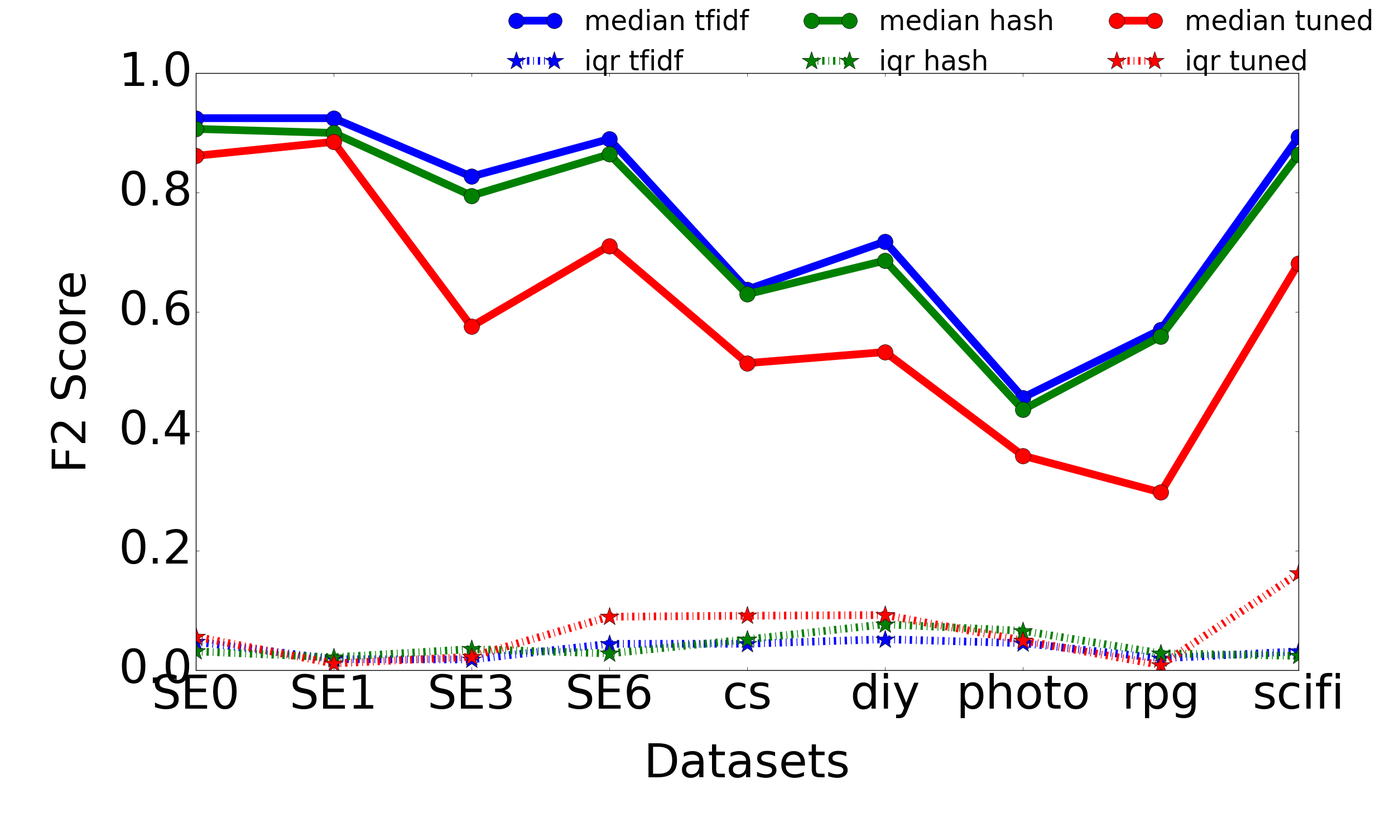
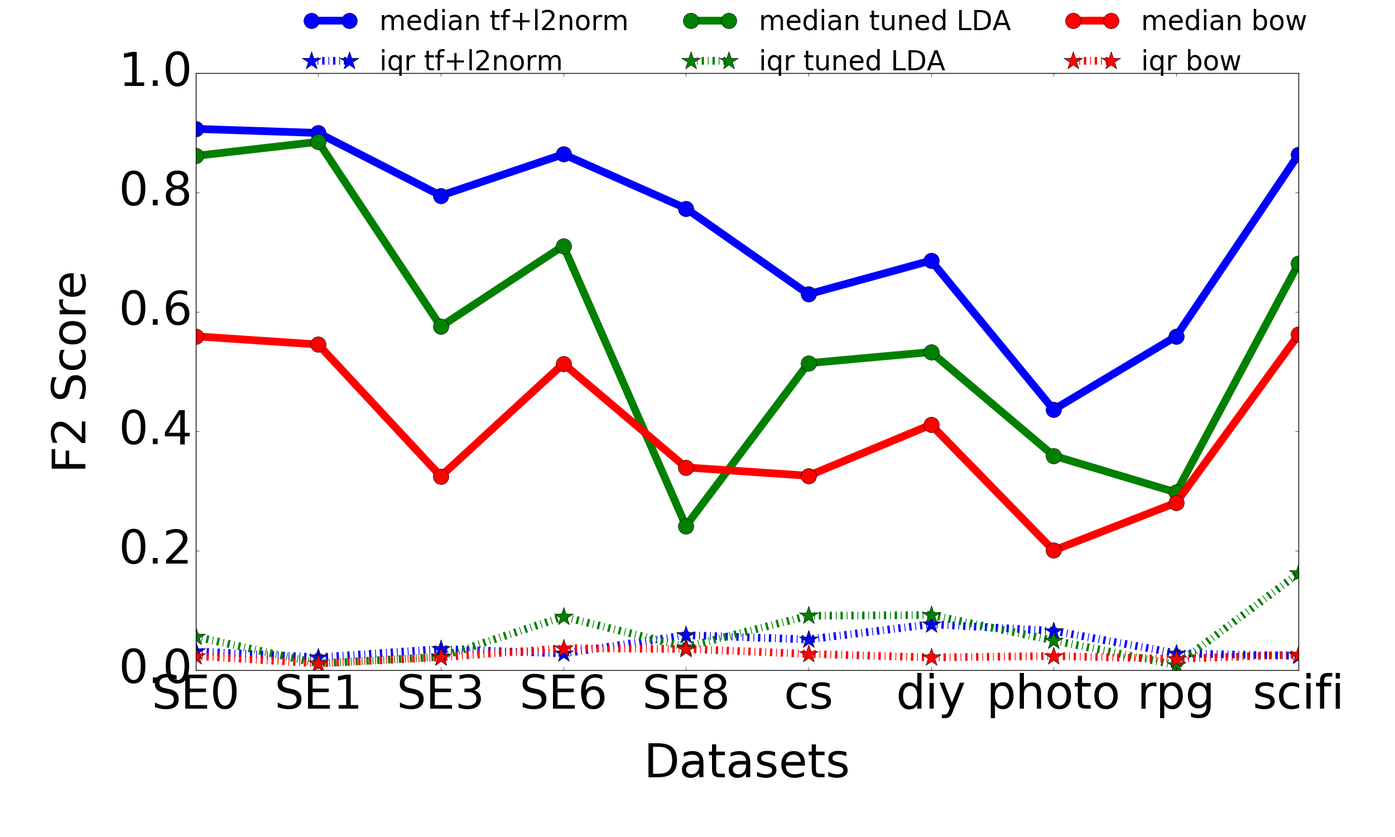
save

diff --git a/src/2016-11-03/draw.py b/src/2016-11-03/draw.py
@@ -7,12 +7,13 @@ import numpy as np
 import matplotlib.cm as cmx
 import matplotlib.colors as colors
 #log_tuned={'SE6': [{0: [[[83, 0.11815813794912039, 0.5325108469364452], [0.01674229160169266, 0.79952267303102631]], 3695.22896194458, 0.78947368421052633], 1: [[[103, 0.13297012262292499, 0.8540348501230959], [0.01641061103791374, 0.74931880108991822]], 4186.932622909546, 0.69158878504672905], 2: [[[95, 0.18343769905644258, 0.0796524557064503], [0.016908578123725218, 0.8150470219435737]], 4300.837275028229, 0.79268292682926833], 3: [[[104, 0.6567406137097488, 0.4678292601376392], [0.01415901443802259, 0.72864321608040195]], 4126.1505308151245, 0.53097345132743368], 4: [[[105, 0.15128965811985629, 0.05907595500072243], [0.017127971212461603, 0.77108433734939752]], 4387.267173051834, 0.83673469387755106]}, [0.78947368421052633, 0.69158878504672905, 0.79268292682926833, 0.53097345132743368, 0.83673469387755106], 20697.134072065353], 'SE3': [{0: [[[70, 0.13813847223688946, 0.21701192217848606], [0.0041335558760771775, 0.62103929024081117]], 16807.646595954895, 0.60546874999999989], 1: [[[121.1, 0.1, 0.09819315273321153], [0.004166371086747754, 0.64871481028151778]], 17148.77043414116, 0.58325493885230484], 2: [[[76.2, 0.21727295057097423, 0.28747174327859326], [0.00401535621637436, 0.64743589743589747]], 16982.114508152008, 0.58325024925224334], 3: [[[150, 0.3208575690701714, 0.6950242286614807], [0.0034863785904748323, 0.60585885486018642]], 19238.308867931366, 0.56107249255213509], 4: [[[119.4, 0.5602813760669031, 0.5609440912569552], [0.0035639748413401383, 0.60570071258907365]], 18089.028545856476, 0.49773755656108604]}, [0.60546874999999989, 0.58325493885230484, 0.58325024925224334, 0.56107249255213509, 0.49773755656108604], 88268.13963389397], 'SE1': [{0: [[[90, 0.19938501164789546, 0.4822167799502225], [0.005638762391865364, 0.90118577075098805]], 11567.587004899979, 0.87140992167101816], 1: [[[121, 0.140731276744474, 0.09497619780488248], [0.0059548924402544464, 0.90222575516693171]], 12530.836812019348, 0.90259740259740251], 2: [[[132, 0.16400209326850285, 0.653625946529504], [0.005490271577725267, 0.89785831960461293]], 12696.132282018661, 0.89308578745198453], 3: [[[74.2, 0.14533289868937954, 0.01], [0.006284383577663444, 0.9083665338645418]], 13925.738764047623, 0.9187620889748549], 4: [[[134.3, 0.14303038766283846, 0.457873591182994], [0.005562750641867097, 0.90783090783090781]], 12797.671155929565, 0.90090090090090091]}, [0.87140992167101816, 0.90259740259740251, 0.89308578745198453, 0.9187620889748549, 0.90090090090090091], 63519.19331288338], 'SE0': [{0: [[[75, 0.2870935819735936, 0.04040618049657823], [0.04976084234337918, 0.93333333333333324]], 1175.7441899776459, 0.9375], 1: [[[70, 0.1, 1], [0.04817090968931066, 0.95238095238095233]], 1309.1318399906158, 0.90189873417721511], 2: [[[80, 0.5872264533595015, 0.9358042121880467], [0.040386544080552096, 0.92741935483870974]], 1264.0944859981537, 0.84967320261437906], 3: [[[94.4, 0.1, 0.3429766206147909], [0.047260387444366184, 0.9701492537313432]], 1317.9225652217865, 0.89743589743589736], 4: [[[105.44, 0.1, 0.01], [0.05085545962742551, 0.94907407407407407]], 1274.898661851883, 0.93354430379746856]}, [0.9375, 0.90189873417721511, 0.84967320261437906, 0.89743589743589736, 0.93354430379746856], 6342.011147022247], 'photo': [{0: [[[135, 0.11249861124005991, 0.23317810300681413], [0.023111486970568286, 0.45035823950870008]], 2991.955897092819, 0.44634806131650134], 1: [[[98, 0.9447438915895904, 0.2663329345052736], [0.02108446623892768, 0.47192353643966539]], 2695.3910388946533, 0.40778839088905217], 2: [[[75, 0.2619616301778306, 0.9909031953058552], [0.022888670595504593, 0.44102019128586617]], 2453.6466472148895, 0.42210617928633593], 3: [[[103, 0.6262793881106326, 0.011525767347016018], [0.025990011867863993, 0.47024952015355087]], 2710.2226190567017, 0.47762478485370047], 4: [[[150, 0.1, 1], [0.02317465763205413, 0.4837067209775967]], 2696.7458300590515, 0.35812672176308541]}, [0.44634806131650134, 0.40778839088905217, 0.42210617928633593, 0.47762478485370047, 0.35812672176308541], 13548.627535104752], 'SE8': [{0: [[[91, 0.8447891398687247, 0.27252301123823575], [0.005118171231284799, 0.36637931034482762]], 12990.728049993515, 0.24578651685393257], 1: [[[97, 0.7344268995685013, 0.09453088486467787], [0.005367918857400295, 0.40277777777777785]], 10542.634625911713, 0.31404958677685951], 2: [[[116.0, 0.1, 0.4253458636077497], [0.005219640191670179, 0.36585365853658536]], 11392.422042131424, 0.36132812499999994], 3: [[[94, 0.16023243931684292, 0.7904615439225354], [0.005069694615183662, 0.30343007915567283]], 9486.559100151062, 0.20196506550218343], 4: [[[135, 0.14293087150257688, 0.4311937844924613], [0.005043216283004894, 0.37037037037037035]], 10742.668865203857, 0.23743016759776536]}, [0.24578651685393257, 0.31404958677685951, 0.36132812499999994, 0.20196506550218343, 0.23743016759776536], 55156.58504104614], 'scifi': [{0: [[[94, 0.31389783172006575, 0.08031773024457], [0.014192150708346337, 0.88365243004418259]], 3902.6384019851685, 0.85695006747638336], 1: [[[98, 0.21695911897940587, 0.054309740241067765], [0.014382445153108023, 0.9031657355679702]], 4220.930685997009, 0.87193460490463215], 2: [[[106, 0.10871513271527461, 0.14132781526270816], [0.014104386534809275, 0.87301587301587302]], 3647.5049929618835, 0.84868421052631582], 3: [[[129, 0.3227029510817835, 0.1757650084975377], [0.012968059469602772, 0.84999999999999998]], 4342.0208559036255, 0.85106382978723394], 4: [[[149, 0.178295485170633, 0.10608177114497361], [0.013490098628873121, 0.86235489220563832]], 4359.777163028717, 0.89918256130790186]}, [0.85695006747638336, 0.87193460490463215, 0.84868421052631582, 0.85106382978723394, 0.89918256130790186], 20474.478773117065], 'rpg': [{0: [[[75, 0.5541901588294901, 0.14524111983256258], [0.0182370480825672, 0.38430420711974106]], 2981.573642015457, 0.3592814371257485], 1: [[[86, 0.10632203929365129, 0.07897261618941563], [0.019580067622783644, 0.42499999999999999]], 3341.6531109809875, 0.35392088827203333], 2: [[[118, 0.6834560034479946, 0.23699627004514245], [0.016378501122067114, 0.39439088518843118]], 3217.0379269123077, 0.33793604651162784], 3: [[[72, 0.5204681990885904, 0.3449409882228137], [0.017401293606229048, 0.42738589211618255]], 3069.0149137973785, 0.35756501182033096], 4: [[[116, 0.28098542398013115, 0.024328680454351895], [0.019714253853360182, 0.41304347826086951]], 3281.3434369564056, 0.38543897216274092]}, [0.3592814371257485, 0.35392088827203333, 0.33793604651162784, 0.35756501182033096, 0.38543897216274092], 15891.068197011948], 'cs': [{0: [[[85, 0.6213181437425073, 0.11204022065250765], [0.02743830441611178, 0.65051020408163263]], 1972.7464208602905, 0.63348416289592757], 1: [[[97, 0.11688980495135161, 0.11493013586500893], [0.028548007209889304, 0.60471976401179939]], 1984.3869450092316, 0.64718162839248439], 2: [[[125, 0.1565992619914991, 0.3054524464705272], [0.026512609785522924, 0.62360801781737185]], 2199.186493873596, 0.52222222222222225], 3: [[[79, 0.24825343194944732, 0.31910319489262545], [0.02674044224596606, 0.66406250000000011]], 2005.4950869083405, 0.57971014492753625], 4: [[[95, 0.9503256041807061, 0.7187083064204416], [0.02236717637723132, 0.66091954022988508]], 1939.8553550243378, 0.5365296803652968]}, [0.63348416289592757, 0.64718162839248439, 0.52222222222222225, 0.57971014492753625, 0.5365296803652968], 10102.369038105011], 'diy': [{0: [[[104.1, 0.5566921264194947, 0.3568568694204629], [0.01565475273819549, 0.6743002544529263]], 3049.9050290584564, 0.61090225563909772], 1: [[[134, 0.23246380413918005, 0.01885789702333514], [0.018889785518742267, 0.67660550458715596]], 3600.834750890732, 0.62171628721541161], 2: [[[92, 0.40097491732217605, 0.24935467552511606], [0.016756510634846487, 0.67887931034482762]], 3035.883682012558, 0.62624254473161023], 3: [[[95, 0.6657201137768471, 0.22206808140160328], [0.016425486508170283, 0.60141509433962259]], 3134.780804872513, 0.67404426559356134], 4: [[[145, 0.22501139476119217, 0.0642220673004627], [0.01794415921209529, 0.69318181818181812]], 3599.412810087204, 0.65094339622641517]}, [0.61090225563909772, 0.62171628721541161, 0.62624254473161023, 0.67404426559356134, 0.65094339622641517], 16421.536218881607]}
-#untuned={'SE6': {'tfidf': {'linear': [0.87557603686635954, 0.88914549653579689, 0.88838268792710695, 0.89569160997732422, 0.88709677419354827, 0.9174311926605504, 0.94170403587443963, 0.85846867749419953, 0.87356321839080464, 0.89772727272727282, 0.96109839816933651, 0.92841163310961983, 0.91836734693877542, 0.83333333333333348, 0.83526682134570773, 0.93103448275862077, 0.87301587301587302, 0.86956521739130432, 0.84862385321100919, 0.92342342342342332, 0.88167053364269143, 0.88709677419354827, 0.89977220956719806, 0.90389016018306645, 0.89977220956719806]}, 'hash': {'linear': [0.84668192219679628, 0.84282460136674242, 0.82392776523702038, 0.90401785714285721, 0.8980044345898005, 0.88169642857142849, 0.86516853932584259, 0.86405529953917048, 0.87443946188340793, 0.84615384615384615, 0.86516853932584259, 0.88169642857142849, 0.83900226757369623, 0.87443946188340793, 0.86516853932584259, 0.859375, 0.84801762114537449, 0.83705357142857151, 0.86363636363636365, 0.85812356979405024, 0.898876404494382, 0.86560364464692496, 0.81818181818181834, 0.85778781038374707, 0.86322869955156967]}}, 'SE3': {'tfidf': {'linear': [0.8263305322128851, 0.8134642356241234, 0.83452211126961484, 0.83453237410071945, 0.79689703808180523, 0.83810888252148996, 0.8495821727019498, 0.83217753120665749, 0.82869080779944293, 0.76368876080691628, 0.84379358437935836, 0.81690140845070414, 0.81428571428571428, 0.82627118644067798, 0.83926031294452341, 0.84659913169319823, 0.82743988684582748, 0.82025677603423675, 0.83100558659217871, 0.79999999999999993, 0.8066860465116279, 0.82047685834502115, 0.81690140845070414, 0.81676136363636365, 0.8606557377049181]}, 'hash': {'linear': [0.77574047954865999, 0.80000000000000004, 0.80758426966292129, 0.80141843971631199, 0.76011157601115764, 0.79750346740638012, 0.80622347949080619, 0.7825484764542936, 0.77030812324929976, 0.80829756795422047, 0.78762306610407873, 0.79639889196675884, 0.83217753120665749, 0.76763485477178428, 0.76652601969057665, 0.79432624113475192, 0.75239398084815323, 0.80532212885154053, 0.83218707015130666, 0.76428571428571423, 0.7941988950276242, 0.77355836849507742, 0.79700272479564038, 0.74127906976744173, 0.85091420534458495]}}, 'SE1': {'tfidf': {'linear': [0.92730978260869568, 0.9032038173142467, 0.92454112848402448, 0.92567567567567566, 0.92114208021753896, 0.9162125340599454, 0.91002044989775055, 0.9334691106585199, 0.90724441435341907, 0.94042838018741637, 0.92402464065708401, 0.90136054421768708, 0.92592592592592593, 0.91554054054054046, 0.92354533152909346, 0.92968221771467219, 0.92276144907723856, 0.90631364562118133, 0.93387866394001362, 0.90074779061862675, 0.92794017675050988, 0.92818428184281843, 0.90537780803267531, 0.93047034764826153, 0.93559322033898307]}, 'hash': {'linear': [0.90169491525423717, 0.88693297224102907, 0.90847457627118655, 0.90389784946236562, 0.88354773188896407, 0.91002044989775055, 0.89986468200270631, 0.88715159755268524, 0.91336467427803891, 0.89932885906040261, 0.87635869565217384, 0.91954022988505735, 0.9251700680272108, 0.88195841716968459, 0.88888888888888873, 0.88851351351351349, 0.91310251188051594, 0.89261285909712718, 0.89959568733153639, 0.88948787061994627, 0.89309878213802418, 0.91307277628032346, 0.8845374746792708, 0.86603518267929636, 0.90694538098449096]}}, 'SE0': {'tfidf': {'linear': [0.91362126245847175, 0.92833876221498357, 0.93851132686084149, 0.88815789473684204, 0.89869281045751648, 0.9508196721311476, 0.91935483870967738, 0.9546925566343043, 0.82214765100671139, 0.91205211726384372, 0.92409240924092406, 0.93442622950819676, 0.93851132686084149, 0.86885245901639341, 0.9838709677419355, 0.93023255813953476, 0.94462540716612375, 0.84717607973421938, 0.91503267973856217, 0.87748344370860931, 0.86956521739130443, 0.93548387096774188, 0.94462540716612375, 0.8910891089108911, 0.92532467532467533]}, 'hash': {'linear': [0.91362126245847175, 0.87171052631578949, 0.92233009708737868, 0.87748344370860931, 0.89869281045751648, 0.88926174496644295, 0.91503267973856217, 0.90759075907590769, 0.92532467532467533, 0.89869281045751648, 0.92105263157894735, 0.8910891089108911, 0.85526315789473684, 0.89869281045751648, 0.86378737541528228, 0.96721311475409832, 0.93851132686084149, 0.93137254901960775, 0.79391891891891886, 0.91935483870967738, 0.92715231788079477, 0.90163934426229519, 0.92532467532467533, 0.8910891089108911, 0.90614886731391597]}}, 'photo': {'tfidf': {'linear': [0.42982456140350878, 0.43814432989690721, 0.44194107452339682, 0.50000000000000011, 0.49137931034482762, 0.47957371225577261, 0.47538200339558567, 0.45620437956204379, 0.47979797979797978, 0.43554006968641118, 0.52631578947368418, 0.48551959114139698, 0.3859964093357271, 0.46409807355516636, 0.43220338983050849, 0.40798611111111116, 0.44117647058823528, 0.43771043771043766, 0.48717948717948711, 0.41284403669724773, 0.45685279187817263, 0.47579298831385641, 0.40350877192982459, 0.43478260869565211, 0.4830053667262969]}, 'hash': {'linear': [0.42387543252595156, 0.43594306049822062, 0.42444821731748728, 0.51601423487544484, 0.48951048951048953, 0.45685279187817263, 0.52586206896551724, 0.48330404217926187, 0.37300177619893432, 0.38596491228070179, 0.40747028862478774, 0.50862068965517238, 0.39682539682539686, 0.4325259515570935, 0.52447552447552448, 0.4681978798586573, 0.42387543252595156, 0.44463087248322153, 0.41245791245791247, 0.50610820244328103, 0.42241379310344829, 0.46875, 0.50862068965517238, 0.42418772563176899, 0.4247787610619469]}}, 'SE8': {'tfidf': {'linear': [0.76923076923076927, 0.85308056872037907, 0.83732057416267947, 0.81280788177339891, 0.77294685990338163, 0.80487804878048774, 0.7674418604651162, 0.84541062801932376, 0.75980392156862742, 0.7857142857142857, 0.81730769230769229, 0.80568720379146919, 0.82524271844660191, 0.75829383886255919, 0.83732057416267947, 0.83333333333333337, 0.77500000000000013, 0.87962962962962954, 0.70351758793969843, 0.78817733990147776, 0.77889447236180898, 0.84862385321100908, 0.80645161290322576, 0.84951456310679618, 0.77294685990338163]}, 'hash': {'linear': [0.79601990049751226, 0.87677725118483418, 0.82125603864734287, 0.75242718446601953, 0.73113207547169801, 0.77294685990338163, 0.80097087378640763, 0.73604060913705593, 0.86046511627906985, 0.76388888888888884, 0.74519230769230771, 0.80645161290322576, 0.75609756097560976, 0.73604060913705593, 0.86124401913875615, 0.80568720379146919, 0.76354679802955672, 0.75117370892018787, 0.77114427860696522, 0.83720930232558144, 0.7142857142857143, 0.74519230769230771, 0.80188679245283023, 0.81339712918660279, 0.80952380952380942]}}, 'scifi': {'tfidf': {'linear': [0.91608391608391604, 0.89310829817158921, 0.86987270155587004, 0.90780141843971629, 0.88935574229691883, 0.94233473980309423, 0.88744588744588759, 0.88401697312588412, 0.86592178770949713, 0.90782122905027951, 0.87357954545454541, 0.88732394366197176, 0.94744121715076079, 0.89615931721194875, 0.86036671368124129, 0.93530239099859347, 0.91038406827880525, 0.87657784011220208, 0.87482219061166433, 0.87904360056258801, 0.89488636363636354, 0.90523338048090529, 0.90209790209790197, 0.86428571428571432, 0.90909090909090917]}, 'hash': {'linear': [0.87994542974079115, 0.84144645340751056, 0.8692628650904034, 0.8380281690140845, 0.85517241379310349, 0.85211267605633789, 0.87312414733969979, 0.89903181189488257, 0.82287308228730827, 0.87345254470426403, 0.86230876216968022, 0.92361111111111105, 0.84944751381215466, 0.87078651685393249, 0.83563535911602205, 0.89385474860335201, 0.86350974930362123, 0.87621696801112658, 0.83906464924346624, 0.87016574585635365, 0.82738944365192579, 0.8677685950413222, 0.85654596100278546, 0.86301369863013688, 0.86685159500693487]}}, 'rpg': {'tfidf': {'linear': [0.57224606580829762, 0.57917888563049846, 0.59607293127629735, 0.56122448979591832, 0.55959302325581384, 0.57365439093484427, 0.52975326560232217, 0.59626436781609193, 0.57365439093484427, 0.54519368723098993, 0.52068473609129817, 0.6047197640117995, 0.5683453237410071, 0.56671449067431845, 0.58910162002945521, 0.5844155844155845, 0.54676258992805749, 0.54225352112676051, 0.57412790697674421, 0.56277056277056281, 0.58055152394775034, 0.56286549707602329, 0.56998556998556993, 0.54765291607396871, 0.57503506311360453]}, 'hash': {'linear': [0.56671449067431845, 0.56417489421720735, 0.55389221556886226, 0.52395209580838309, 0.50724637681159424, 0.54896142433234418, 0.56509298998569379, 0.6028368794326241, 0.56768558951965054, 0.51470588235294112, 0.53724928366762181, 0.53597650513950068, 0.57580174927113703, 0.56034482758620685, 0.56286549707602329, 0.60171919770773641, 0.54785020804438278, 0.52205882352941169, 0.55066079295154191, 0.55386949924127471, 0.53973013493253374, 0.5716353111432706, 0.55873925501432653, 0.60205580029368577, 0.56786703601108035]}}, 'cs': {'tfidf': {'linear': [0.61771561771561778, 0.63549160671462834, 0.63805104408352664, 0.65853658536585358, 0.59610705596107061, 0.63701923076923084, 0.64320388349514579, 0.63510392609699762, 0.66265060240963858, 0.6644144144144144, 0.61274509803921562, 0.65727699530516437, 0.61320754716981118, 0.64320388349514579, 0.69739952718676124, 0.59665871121718372, 0.60465116279069764, 0.64950980392156865, 0.64903846153846156, 0.63679245283018882, 0.5690072639225181, 0.67216981132075471, 0.58894230769230771, 0.61893203883495163, 0.69930069930069938]}, 'hash': {'linear': [0.65268065268065267, 0.64402810304449642, 0.58139534883720922, 0.6588235294117647, 0.62790697674418616, 0.62937062937062926, 0.63380281690140849, 0.62929061784897034, 0.54631828978622321, 0.63829787234042556, 0.66901408450704225, 0.66825775656324571, 0.60426540284360197, 0.59101654846335705, 0.59770114942528729, 0.65420560747663548, 0.65217391304347827, 0.59101654846335705, 0.63679245283018882, 0.60090702947845809, 0.71764705882352942, 0.625, 0.58194774346793354, 0.60090702947845809, 0.60096153846153844]}}, 'diy': {'tfidf': {'linear': [0.7752808988764045, 0.67928730512249447, 0.77272727272727271, 0.75268817204301075, 0.64772727272727271, 0.73788546255506604, 0.68478260869565222, 0.71748878923766823, 0.73529411764705876, 0.74157303370786509, 0.69284064665127032, 0.71743929359823388, 0.75163398692810468, 0.76666666666666672, 0.70953436807095338, 0.70135746606334837, 0.75431034482758619, 0.70484581497797361, 0.70438799076212466, 0.70114942528735624, 0.75723830734966591, 0.70484581497797361, 0.69690265486725667, 0.62200956937799046, 0.7860262008733625]}, 'hash': {'linear': [0.72562358276644001, 0.72869955156950683, 0.65555555555555556, 0.73732718894009219, 0.66448801742919394, 0.65995525727069348, 0.67873303167420806, 0.7505518763796909, 0.73660714285714279, 0.65217391304347816, 0.65972222222222221, 0.72062084257206194, 0.78299776286353473, 0.63063063063063063, 0.69264069264069261, 0.68565400843881852, 0.72368421052631571, 0.74592074592074598, 0.67032967032967039, 0.6138392857142857, 0.67114093959731547, 0.65909090909090906, 0.74115044247787609, 0.6777777777777777, 0.74725274725274715]}}}
-#jaccard_tuned={'SE6': [{0: [[[100, 0.19297542703277382, 0.6702608974014973], [0.75, 0.75156576200417546]], 8376.640879154205, 0.71033210332103325], 1: [[[85.0, 0.1, 0.27501088066217466], [0.75, 0.76704545454545459]], 9991.221119880676, 0.86956521739130443], 2: [[[121, 0.16973580786361472, 0.5706568376741179], [0.75, 0.63577586206896541]], 8758.78611779213, 0.71428571428571441], 3: [[[103, 0.33886952472633536, 0.9855811127297843], [0.75, 0.55810397553516822]], 8705.782521009445, 0.625], 4: [[[124.9, 0.1, 1], [1.0, 0.53030303030303039]], 9996.39310002327, 0.61461794019933558]}, [0.71033210332103325, 0.86956521739130443, 0.71428571428571441, 0.625, 0.61461794019933558], 45828.950165987015], 'SE3': [{0: [[[70, 0.13813847223688946, 0.21701192217848606], [0.5, 0.68603213844252153]], 41407.026415109634, 0.57874762808349145], 1: [[[98, 0.13082947598095568, 0.1628801260834368], [0.5, 0.58064516129032262]], 44595.179894924164, 0.63607924921793535], 2: [[[88, 0.19288253600730992, 0.3968217203306359], [0.5, 0.62091503267973858]], 41015.920333862305, 0.57526366251198469], 3: [[[142, 0.1782542700439075, 0.3876940697671911], [0.5, 0.62015503875969002]], 50464.95137786865, 0.55657773689052437], 4: [[[84.6, 0.1, 0.6928156232433258], [0.5, 0.60513447432762835]], 46773.06222009659, 0.38630653266331655]}, [0.57874762808349145, 0.63607924921793535, 0.57526366251198469, 0.55657773689052437, 0.38630653266331655], 224256.90544080734], 'SE1': [{0: [[[90, 0.19938501164789546, 0.4822167799502225], [0.75, 0.90909090909090906]], 27303.478201150894, 0.87702265372168287], 1: [[[93, 0.15325938518565918, 0.7350936502712501], [0.75, 0.89137645107794361]], 26198.626716852188, 0.88803088803088803], 2: [[[78, 0.1251751936103578, 0.43424706815102393], [0.75, 0.89694656488549618]], 27950.70831990242, 0.91677503250975279], 3: [[[144, 0.11292818953754573, 0.1731524008990326], [0.75, 0.90831191088260499]], 25182.636461019516, 0.88444157520981281], 4: [[[70, 0.6026482805010416, 0.6506613161218172], [0.75, 0.88235294117647067]], 24928.82283091545, 0.85823267641449441]}, [0.87702265372168287, 0.88803088803088803, 0.91677503250975279, 0.88444157520981281, 0.85823267641449441], 131564.7270948887], 'SE0': [{0: [[[78, 0.7602710954605432, 0.7648532511684383], [1.0, 0.82995951417004066]], 3137.095813035965, 0.85760517799352753], 1: [[[131, 0.44252353158469493, 0.075156099819646], [0.75, 0.85051546391752564]], 3420.6104509830475, 0.83056478405315615], 2: [[[88.6, 0.10297693079436032, 0.4283415564958784], [0.75, 0.9569377990430622]], 3788.480891942978, 0.93354430379746856], 3: [[[150, 0.2614271967114924, 0.9030979265048535], [1.0, 0.8214285714285714]], 3631.5800909996033, 0.91346153846153844], 4: [[[121, 0.5693682460470674, 0.8218853954627423], [1.0, 0.72289156626506013]], 3465.8656208515167, 0.86092715231788086]}, [0.85760517799352753, 0.83056478405315615, 0.93354430379746856, 0.91346153846153844, 0.86092715231788086], 17443.697834968567], 'photo': [{0: [[[145, 0.3943578774949562, 0.5615388129908747], [1.0, 0.39705882352941169]], 10474.39441204071, 0.39979757085020251], 1: [[[132, 0.7830396250333493, 0.7363455987935092], [1.0, 0.30737704918032788]], 8944.273241996765, 0.33838383838383845], 2: [[[148, 0.7328110811481445, 0.8440423168167064], [0.75, 0.4562268803945746]], 10382.123938083649, 0.3503184713375796], 3: [[[102, 0.13866232513545884, 0.8483736214096389], [0.75, 0.4926108374384236]], 9036.484382867813, 0.42776432606941089], 4: [[[126, 0.4263511278353652, 0.7065989561396058], [0.75, 0.47207446808510639]], 9024.722458839417, 0.35889070146818919]}, [0.39979757085020251, 0.33838383838383845, 0.3503184713375796, 0.42776432606941089, 0.35889070146818919], 47862.21007800102], 'scifi': [{0: [[[131, 0.786238804427498, 0.9085625064469703], [1.0, 0.6207366984993179]], 15653.131659030914, 0.625], 1: [[[121, 0.9348022722235307, 0.9193413422324184], [1.0, 0.625]], 15441.182574987411, 0.68126520681265201], 2: [[[109.1, 0.21161158238907873, 1], [1.0, 0.82978723404255328]], 17168.354903936386, 0.80519480519480502], 3: [[[80.7, 0.14323254015767423, 0.7312803772559391], [0.75, 0.89314194577352468]], 18987.88377404213, 0.86363636363636376], 4: [[[150, 0.2656647615236077, 0.7376001225594495], [1.0, 0.64495530012771385]], 18754.55832695961, 0.64317673378076057]}, [0.625, 0.68126520681265201, 0.80519480519480502, 0.86363636363636376, 0.64317673378076057], 86005.41646504402], 'rpg': [{0: [[[139, 0.23895973417989835, 0.8752770766923749], [0.75, 0.3125]], 6846.719393968582, 0.30156165858912226], 1: [[[128.3, 0.5954408505980529, 0.9916928666336362], [0.75, 0.33554817275747506]], 7260.958876132965, 0.29738878143133463], 2: [[[145.1, 0.718035999915716, 0.9283214802640409], [0.75, 0.32440476190476186]], 7200.810341119766, 0.27751423149905124], 3: [[[82.7, 0.3046250853243862, 0.9289187422594142], [0.75, 0.35714285714285715]], 6170.637305021286, 0.29317010309278352], 4: [[[70, 0.448829835469857, 0.7481560700301431], [0.75, 0.37269372693726938]], 6270.791911125183, 0.32741738066095472]}, [0.30156165858912226, 0.29738878143133463, 0.27751423149905124, 0.29317010309278352, 0.32741738066095472], 33750.078605890274], 'cs': [{0: [[[89, 0.5228947541073846, 0.460374716774128], [0.5, 0.64102564102564097]], 7711.550457000732, 0.5580357142857143], 1: [[[120.1, 0.29966147154114925, 0.8889754174900892], [0.75, 0.5844155844155845]], 7554.562304973602, 0.51383399209486169], 2: [[[129, 0.2725793001763192, 0.997100181804948], [0.75, 0.63888888888888895]], 6978.088127851486, 0.52391799544419138], 3: [[[150, 0.9818874305119129, 0.9397372448265949], [0.75, 0.42216358839050128]], 7897.849547147751, 0.3930131004366812], 4: [[[137, 0.6637192867430921, 0.753669429657096], [0.75, 0.43973941368078173]], 7523.143872976303, 0.4329896907216495]}, [0.5580357142857143, 0.51383399209486169, 0.52391799544419138, 0.3930131004366812, 0.4329896907216495], 37665.38827300072], 'diy': [{0: [[[73, 0.9587989910349364, 0.12021876371928183], [0.5, 0.65610859728506787]], 11980.725681781769, 0.6021897810218978], 1: [[[97.1, 0.6521561781404386, 0.7976135335091714], [0.75, 0.52040816326530615]], 11475.269180059433, 0.53244592346089858], 2: [[[95, 0.3404983553691791, 0.9632447143235703], [0.75, 0.55785123966942163]], 11238.82038283348, 0.41509433962264142], 3: [[[70, 0.31979110732187876, 0.01], [0.5, 0.64272211720226835]], 11299.225255012512, 0.56131260794473226], 4: [[[82, 0.4147610136843711, 0.7421218273836252], [0.75, 0.51485148514851475]], 11905.667557954788, 0.46923076923076912]}, [0.6021897810218978, 0.53244592346089858, 0.41509433962264142, 0.56131260794473226, 0.46923076923076912], 57900.026175022125]}
+untuned={'SE6': {'tfidf': {'linear': [0.87557603686635954, 0.88914549653579689, 0.88838268792710695, 0.89569160997732422, 0.88709677419354827, 0.9174311926605504, 0.94170403587443963, 0.85846867749419953, 0.87356321839080464, 0.89772727272727282, 0.96109839816933651, 0.92841163310961983, 0.91836734693877542, 0.83333333333333348, 0.83526682134570773, 0.93103448275862077, 0.87301587301587302, 0.86956521739130432, 0.84862385321100919, 0.92342342342342332, 0.88167053364269143, 0.88709677419354827, 0.89977220956719806, 0.90389016018306645, 0.89977220956719806]}, 'hash': {'linear': [0.84668192219679628, 0.84282460136674242, 0.82392776523702038, 0.90401785714285721, 0.8980044345898005, 0.88169642857142849, 0.86516853932584259, 0.86405529953917048, 0.87443946188340793, 0.84615384615384615, 0.86516853932584259, 0.88169642857142849, 0.83900226757369623, 0.87443946188340793, 0.86516853932584259, 0.859375, 0.84801762114537449, 0.83705357142857151, 0.86363636363636365, 0.85812356979405024, 0.898876404494382, 0.86560364464692496, 0.81818181818181834, 0.85778781038374707, 0.86322869955156967]}}, 'SE3': {'tfidf': {'linear': [0.8263305322128851, 0.8134642356241234, 0.83452211126961484, 0.83453237410071945, 0.79689703808180523, 0.83810888252148996, 0.8495821727019498, 0.83217753120665749, 0.82869080779944293, 0.76368876080691628, 0.84379358437935836, 0.81690140845070414, 0.81428571428571428, 0.82627118644067798, 0.83926031294452341, 0.84659913169319823, 0.82743988684582748, 0.82025677603423675, 0.83100558659217871, 0.79999999999999993, 0.8066860465116279, 0.82047685834502115, 0.81690140845070414, 0.81676136363636365, 0.8606557377049181]}, 'hash': {'linear': [0.77574047954865999, 0.80000000000000004, 0.80758426966292129, 0.80141843971631199, 0.76011157601115764, 0.79750346740638012, 0.80622347949080619, 0.7825484764542936, 0.77030812324929976, 0.80829756795422047, 0.78762306610407873, 0.79639889196675884, 0.83217753120665749, 0.76763485477178428, 0.76652601969057665, 0.79432624113475192, 0.75239398084815323, 0.80532212885154053, 0.83218707015130666, 0.76428571428571423, 0.7941988950276242, 0.77355836849507742, 0.79700272479564038, 0.74127906976744173, 0.85091420534458495]}}, 'SE1': {'tfidf': {'linear': [0.92730978260869568, 0.9032038173142467, 0.92454112848402448, 0.92567567567567566, 0.92114208021753896, 0.9162125340599454, 0.91002044989775055, 0.9334691106585199, 0.90724441435341907, 0.94042838018741637, 0.92402464065708401, 0.90136054421768708, 0.92592592592592593, 0.91554054054054046, 0.92354533152909346, 0.92968221771467219, 0.92276144907723856, 0.90631364562118133, 0.93387866394001362, 0.90074779061862675, 0.92794017675050988, 0.92818428184281843, 0.90537780803267531, 0.93047034764826153, 0.93559322033898307]}, 'hash': {'linear': [0.90169491525423717, 0.88693297224102907, 0.90847457627118655, 0.90389784946236562, 0.88354773188896407, 0.91002044989775055, 0.89986468200270631, 0.88715159755268524, 0.91336467427803891, 0.89932885906040261, 0.87635869565217384, 0.91954022988505735, 0.9251700680272108, 0.88195841716968459, 0.88888888888888873, 0.88851351351351349, 0.91310251188051594, 0.89261285909712718, 0.89959568733153639, 0.88948787061994627, 0.89309878213802418, 0.91307277628032346, 0.8845374746792708, 0.86603518267929636, 0.90694538098449096]}}, 'SE0': {'tfidf': {'linear': [0.91362126245847175, 0.92833876221498357, 0.93851132686084149, 0.88815789473684204, 0.89869281045751648, 0.9508196721311476, 0.91935483870967738, 0.9546925566343043, 0.82214765100671139, 0.91205211726384372, 0.92409240924092406, 0.93442622950819676, 0.93851132686084149, 0.86885245901639341, 0.9838709677419355, 0.93023255813953476, 0.94462540716612375, 0.84717607973421938, 0.91503267973856217, 0.87748344370860931, 0.86956521739130443, 0.93548387096774188, 0.94462540716612375, 0.8910891089108911, 0.92532467532467533]}, 'hash': {'linear': [0.91362126245847175, 0.87171052631578949, 0.92233009708737868, 0.87748344370860931, 0.89869281045751648, 0.88926174496644295, 0.91503267973856217, 0.90759075907590769, 0.92532467532467533, 0.89869281045751648, 0.92105263157894735, 0.8910891089108911, 0.85526315789473684, 0.89869281045751648, 0.86378737541528228, 0.96721311475409832, 0.93851132686084149, 0.93137254901960775, 0.79391891891891886, 0.91935483870967738, 0.92715231788079477, 0.90163934426229519, 0.92532467532467533, 0.8910891089108911, 0.90614886731391597]}}, 'photo': {'tfidf': {'linear': [0.42982456140350878, 0.43814432989690721, 0.44194107452339682, 0.50000000000000011, 0.49137931034482762, 0.47957371225577261, 0.47538200339558567, 0.45620437956204379, 0.47979797979797978, 0.43554006968641118, 0.52631578947368418, 0.48551959114139698, 0.3859964093357271, 0.46409807355516636, 0.43220338983050849, 0.40798611111111116, 0.44117647058823528, 0.43771043771043766, 0.48717948717948711, 0.41284403669724773, 0.45685279187817263, 0.47579298831385641, 0.40350877192982459, 0.43478260869565211, 0.4830053667262969]}, 'hash': {'linear': [0.42387543252595156, 0.43594306049822062, 0.42444821731748728, 0.51601423487544484, 0.48951048951048953, 0.45685279187817263, 0.52586206896551724, 0.48330404217926187, 0.37300177619893432, 0.38596491228070179, 0.40747028862478774, 0.50862068965517238, 0.39682539682539686, 0.4325259515570935, 0.52447552447552448, 0.4681978798586573, 0.42387543252595156, 0.44463087248322153, 0.41245791245791247, 0.50610820244328103, 0.42241379310344829, 0.46875, 0.50862068965517238, 0.42418772563176899, 0.4247787610619469]}}, 'SE8': {'tfidf': {'linear': [0.76923076923076927, 0.85308056872037907, 0.83732057416267947, 0.81280788177339891, 0.77294685990338163, 0.80487804878048774, 0.7674418604651162, 0.84541062801932376, 0.75980392156862742, 0.7857142857142857, 0.81730769230769229, 0.80568720379146919, 0.82524271844660191, 0.75829383886255919, 0.83732057416267947, 0.83333333333333337, 0.77500000000000013, 0.87962962962962954, 0.70351758793969843, 0.78817733990147776, 0.77889447236180898, 0.84862385321100908, 0.80645161290322576, 0.84951456310679618, 0.77294685990338163]}, 'hash': {'linear': [0.79601990049751226, 0.87677725118483418, 0.82125603864734287, 0.75242718446601953, 0.73113207547169801, 0.77294685990338163, 0.80097087378640763, 0.73604060913705593, 0.86046511627906985, 0.76388888888888884, 0.74519230769230771, 0.80645161290322576, 0.75609756097560976, 0.73604060913705593, 0.86124401913875615, 0.80568720379146919, 0.76354679802955672, 0.75117370892018787, 0.77114427860696522, 0.83720930232558144, 0.7142857142857143, 0.74519230769230771, 0.80188679245283023, 0.81339712918660279, 0.80952380952380942]}}, 'scifi': {'tfidf': {'linear': [0.91608391608391604, 0.89310829817158921, 0.86987270155587004, 0.90780141843971629, 0.88935574229691883, 0.94233473980309423, 0.88744588744588759, 0.88401697312588412, 0.86592178770949713, 0.90782122905027951, 0.87357954545454541, 0.88732394366197176, 0.94744121715076079, 0.89615931721194875, 0.86036671368124129, 0.93530239099859347, 0.91038406827880525, 0.87657784011220208, 0.87482219061166433, 0.87904360056258801, 0.89488636363636354, 0.90523338048090529, 0.90209790209790197, 0.86428571428571432, 0.90909090909090917]}, 'hash': {'linear': [0.87994542974079115, 0.84144645340751056, 0.8692628650904034, 0.8380281690140845, 0.85517241379310349, 0.85211267605633789, 0.87312414733969979, 0.89903181189488257, 0.82287308228730827, 0.87345254470426403, 0.86230876216968022, 0.92361111111111105, 0.84944751381215466, 0.87078651685393249, 0.83563535911602205, 0.89385474860335201, 0.86350974930362123, 0.87621696801112658, 0.83906464924346624, 0.87016574585635365, 0.82738944365192579, 0.8677685950413222, 0.85654596100278546, 0.86301369863013688, 0.86685159500693487]}}, 'rpg': {'tfidf': {'linear': [0.57224606580829762, 0.57917888563049846, 0.59607293127629735, 0.56122448979591832, 0.55959302325581384, 0.57365439093484427, 0.52975326560232217, 0.59626436781609193, 0.57365439093484427, 0.54519368723098993, 0.52068473609129817, 0.6047197640117995, 0.5683453237410071, 0.56671449067431845, 0.58910162002945521, 0.5844155844155845, 0.54676258992805749, 0.54225352112676051, 0.57412790697674421, 0.56277056277056281, 0.58055152394775034, 0.56286549707602329, 0.56998556998556993, 0.54765291607396871, 0.57503506311360453]}, 'hash': {'linear': [0.56671449067431845, 0.56417489421720735, 0.55389221556886226, 0.52395209580838309, 0.50724637681159424, 0.54896142433234418, 0.56509298998569379, 0.6028368794326241, 0.56768558951965054, 0.51470588235294112, 0.53724928366762181, 0.53597650513950068, 0.57580174927113703, 0.56034482758620685, 0.56286549707602329, 0.60171919770773641, 0.54785020804438278, 0.52205882352941169, 0.55066079295154191, 0.55386949924127471, 0.53973013493253374, 0.5716353111432706, 0.55873925501432653, 0.60205580029368577, 0.56786703601108035]}}, 'cs': {'tfidf': {'linear': [0.61771561771561778, 0.63549160671462834, 0.63805104408352664, 0.65853658536585358, 0.59610705596107061, 0.63701923076923084, 0.64320388349514579, 0.63510392609699762, 0.66265060240963858, 0.6644144144144144, 0.61274509803921562, 0.65727699530516437, 0.61320754716981118, 0.64320388349514579, 0.69739952718676124, 0.59665871121718372, 0.60465116279069764, 0.64950980392156865, 0.64903846153846156, 0.63679245283018882, 0.5690072639225181, 0.67216981132075471, 0.58894230769230771, 0.61893203883495163, 0.69930069930069938]}, 'hash': {'linear': [0.65268065268065267, 0.64402810304449642, 0.58139534883720922, 0.6588235294117647, 0.62790697674418616, 0.62937062937062926, 0.63380281690140849, 0.62929061784897034, 0.54631828978622321, 0.63829787234042556, 0.66901408450704225, 0.66825775656324571, 0.60426540284360197, 0.59101654846335705, 0.59770114942528729, 0.65420560747663548, 0.65217391304347827, 0.59101654846335705, 0.63679245283018882, 0.60090702947845809, 0.71764705882352942, 0.625, 0.58194774346793354, 0.60090702947845809, 0.60096153846153844]}}, 'diy': {'tfidf': {'linear': [0.7752808988764045, 0.67928730512249447, 0.77272727272727271, 0.75268817204301075, 0.64772727272727271, 0.73788546255506604, 0.68478260869565222, 0.71748878923766823, 0.73529411764705876, 0.74157303370786509, 0.69284064665127032, 0.71743929359823388, 0.75163398692810468, 0.76666666666666672, 0.70953436807095338, 0.70135746606334837, 0.75431034482758619, 0.70484581497797361, 0.70438799076212466, 0.70114942528735624, 0.75723830734966591, 0.70484581497797361, 0.69690265486725667, 0.62200956937799046, 0.7860262008733625]}, 'hash': {'linear': [0.72562358276644001, 0.72869955156950683, 0.65555555555555556, 0.73732718894009219, 0.66448801742919394, 0.65995525727069348, 0.67873303167420806, 0.7505518763796909, 0.73660714285714279, 0.65217391304347816, 0.65972222222222221, 0.72062084257206194, 0.78299776286353473, 0.63063063063063063, 0.69264069264069261, 0.68565400843881852, 0.72368421052631571, 0.74592074592074598, 0.67032967032967039, 0.6138392857142857, 0.67114093959731547, 0.65909090909090906, 0.74115044247787609, 0.6777777777777777, 0.74725274725274715]}}}
+tuned={'SE6': [{0: [[[100, 0.19297542703277382, 0.6702608974014973], [0.75, 0.75156576200417546]], 8376.640879154205, 0.71033210332103325], 1: [[[85.0, 0.1, 0.27501088066217466], [0.75, 0.76704545454545459]], 9991.221119880676, 0.86956521739130443], 2: [[[121, 0.16973580786361472, 0.5706568376741179], [0.75, 0.63577586206896541]], 8758.78611779213, 0.71428571428571441], 3: [[[103, 0.33886952472633536, 0.9855811127297843], [0.75, 0.55810397553516822]], 8705.782521009445, 0.625], 4: [[[124.9, 0.1, 1], [1.0, 0.53030303030303039]], 9996.39310002327, 0.61461794019933558]}, [0.71033210332103325, 0.86956521739130443, 0.71428571428571441, 0.625, 0.61461794019933558], 45828.950165987015], 'SE3': [{0: [[[70, 0.13813847223688946, 0.21701192217848606], [0.5, 0.68603213844252153]], 41407.026415109634, 0.57874762808349145], 1: [[[98, 0.13082947598095568, 0.1628801260834368], [0.5, 0.58064516129032262]], 44595.179894924164, 0.63607924921793535], 2: [[[88, 0.19288253600730992, 0.3968217203306359], [0.5, 0.62091503267973858]], 41015.920333862305, 0.57526366251198469], 3: [[[142, 0.1782542700439075, 0.3876940697671911], [0.5, 0.62015503875969002]], 50464.95137786865, 0.55657773689052437], 4: [[[84.6, 0.1, 0.6928156232433258], [0.5, 0.60513447432762835]], 46773.06222009659, 0.38630653266331655]}, [0.57874762808349145, 0.63607924921793535, 0.57526366251198469, 0.55657773689052437, 0.38630653266331655], 224256.90544080734], 'SE1': [{0: [[[90, 0.19938501164789546, 0.4822167799502225], [0.75, 0.90909090909090906]], 27303.478201150894, 0.87702265372168287], 1: [[[93, 0.15325938518565918, 0.7350936502712501], [0.75, 0.89137645107794361]], 26198.626716852188, 0.88803088803088803], 2: [[[78, 0.1251751936103578, 0.43424706815102393], [0.75, 0.89694656488549618]], 27950.70831990242, 0.91677503250975279], 3: [[[144, 0.11292818953754573, 0.1731524008990326], [0.75, 0.90831191088260499]], 25182.636461019516, 0.88444157520981281], 4: [[[70, 0.6026482805010416, 0.6506613161218172], [0.75, 0.88235294117647067]], 24928.82283091545, 0.85823267641449441]}, [0.87702265372168287, 0.88803088803088803, 0.91677503250975279, 0.88444157520981281, 0.85823267641449441], 131564.7270948887], 'SE0': [{0: [[[78, 0.7602710954605432, 0.7648532511684383], [1.0, 0.82995951417004066]], 3137.095813035965, 0.85760517799352753], 1: [[[131, 0.44252353158469493, 0.075156099819646], [0.75, 0.85051546391752564]], 3420.6104509830475, 0.83056478405315615], 2: [[[88.6, 0.10297693079436032, 0.4283415564958784], [0.75, 0.9569377990430622]], 3788.480891942978, 0.93354430379746856], 3: [[[150, 0.2614271967114924, 0.9030979265048535], [1.0, 0.8214285714285714]], 3631.5800909996033, 0.91346153846153844], 4: [[[121, 0.5693682460470674, 0.8218853954627423], [1.0, 0.72289156626506013]], 3465.8656208515167, 0.86092715231788086]}, [0.85760517799352753, 0.83056478405315615, 0.93354430379746856, 0.91346153846153844, 0.86092715231788086], 17443.697834968567], 'photo': [{0: [[[145, 0.3943578774949562, 0.5615388129908747], [1.0, 0.39705882352941169]], 10474.39441204071, 0.39979757085020251], 1: [[[132, 0.7830396250333493, 0.7363455987935092], [1.0, 0.30737704918032788]], 8944.273241996765, 0.33838383838383845], 2: [[[148, 0.7328110811481445, 0.8440423168167064], [0.75, 0.4562268803945746]], 10382.123938083649, 0.3503184713375796], 3: [[[102, 0.13866232513545884, 0.8483736214096389], [0.75, 0.4926108374384236]], 9036.484382867813, 0.42776432606941089], 4: [[[126, 0.4263511278353652, 0.7065989561396058], [0.75, 0.47207446808510639]], 9024.722458839417, 0.35889070146818919]}, [0.39979757085020251, 0.33838383838383845, 0.3503184713375796, 0.42776432606941089, 0.35889070146818919], 47862.21007800102], 'SE8': [{0: [[[106, 0.5022425550648523, 0.7667209030335326], [0.75, 0.1688311688311688]], 57812.33401107788, 0.20121951219512196], 1: [[[84, 0.22395949272646726, 0.6323070232744209], [0.75, 0.375]], 54387.74421620369, 0.26610644257703087], 2: [[[138, 0.5705482726222524, 0.4394160207713739], [0.75, 0.20609318996415768]], 57518.3665060997, 0.27314112291350529], 3: [[[97, 0.8056071015210313, 0.27879932197685525], [0.75, 0.3364485981308411]], 55387.64553284645, 0.22760646108663732], 4: [[[90.7, 0.13716445620306947, 0.4579530156868202], [0.75, 0.29203539823008845]], 53349.025872945786, 0.24128686327077753]}, [0.20121951219512196, 0.26610644257703087, 0.27314112291350529, 0.22760646108663732, 0.24128686327077753], 278456.1078879833], 'scifi': [{0: [[[131, 0.786238804427498, 0.9085625064469703], [1.0, 0.6207366984993179]], 15653.131659030914, 0.625], 1: [[[121, 0.9348022722235307, 0.9193413422324184], [1.0, 0.625]], 15441.182574987411, 0.68126520681265201], 2: [[[109.1, 0.21161158238907873, 1], [1.0, 0.82978723404255328]], 17168.354903936386, 0.80519480519480502], 3: [[[80.7, 0.14323254015767423, 0.7312803772559391], [0.75, 0.89314194577352468]], 18987.88377404213, 0.86363636363636376], 4: [[[150, 0.2656647615236077, 0.7376001225594495], [1.0, 0.64495530012771385]], 18754.55832695961, 0.64317673378076057]}, [0.625, 0.68126520681265201, 0.80519480519480502, 0.86363636363636376, 0.64317673378076057], 86005.41646504402], 'rpg': [{0: [[[139, 0.23895973417989835, 0.8752770766923749], [0.75, 0.3125]], 6846.719393968582, 0.30156165858912226], 1: [[[128.3, 0.5954408505980529, 0.9916928666336362], [0.75, 0.33554817275747506]], 7260.958876132965, 0.29738878143133463], 2: [[[145.1, 0.718035999915716, 0.9283214802640409], [0.75, 0.32440476190476186]], 7200.810341119766, 0.27751423149905124], 3: [[[82.7, 0.3046250853243862, 0.9289187422594142], [0.75, 0.35714285714285715]], 6170.637305021286, 0.29317010309278352], 4: [[[70, 0.448829835469857, 0.7481560700301431], [0.75, 0.37269372693726938]], 6270.791911125183, 0.32741738066095472]}, [0.30156165858912226, 0.29738878143133463, 0.27751423149905124, 0.29317010309278352, 0.32741738066095472], 33750.078605890274], 'cs': [{0: [[[89, 0.5228947541073846, 0.460374716774128], [0.5, 0.64102564102564097]], 7711.550457000732, 0.5580357142857143], 1: [[[120.1, 0.29966147154114925, 0.8889754174900892], [0.75, 0.5844155844155845]], 7554.562304973602, 0.51383399209486169], 2: [[[129, 0.2725793001763192, 0.997100181804948], [0.75, 0.63888888888888895]], 6978.088127851486, 0.52391799544419138], 3: [[[150, 0.9818874305119129, 0.9397372448265949], [0.75, 0.42216358839050128]], 7897.849547147751, 0.3930131004366812], 4: [[[137, 0.6637192867430921, 0.753669429657096], [0.75, 0.43973941368078173]], 7523.143872976303, 0.4329896907216495]}, [0.5580357142857143, 0.51383399209486169, 0.52391799544419138, 0.3930131004366812, 0.4329896907216495], 37665.38827300072], 'diy': [{0: [[[73, 0.9587989910349364, 0.12021876371928183], [0.5, 0.65610859728506787]], 11980.725681781769, 0.6021897810218978], 1: [[[97.1, 0.6521561781404386, 0.7976135335091714], [0.75, 0.52040816326530615]], 11475.269180059433, 0.53244592346089858], 2: [[[95, 0.3404983553691791, 0.9632447143235703], [0.75, 0.55785123966942163]], 11238.82038283348, 0.41509433962264142], 3: [[[70, 0.31979110732187876, 0.01], [0.5, 0.64272211720226835]], 11299.225255012512, 0.56131260794473226], 4: [[[82, 0.4147610136843711, 0.7421218273836252], [0.75, 0.51485148514851475]], 11905.667557954788, 0.46923076923076912]}, [0.6021897810218978, 0.53244592346089858, 0.41509433962264142, 0.56131260794473226, 0.46923076923076912], 57900.026175022125]}
+bow=([0.5588003157063931, 0.54508076358296631, 0.32443531827515398, 0.51312530955918778, 0.33925049309664695, 0.32533889468196037, 0.4107633168588688, 0.20027560863573726, 0.28019323671497581, 0.56195121951219507], [0.023492425289380003, 0.011074290619217275, 0.021337579047686128, 0.036498892054447618, 0.035342089890761874, 0.027011817670230642, 0.021151052046366081, 0.023487443500820882, 0.018752614713125559, 0.025969959330322534])
 
 if __name__ == '__main__':
     #ux,android,SE8
-    fileB = ['SE0' ,'SE1','SE3','SE6','cs','diy','photo','rpg','scifi']
+    fileB = ['SE0' ,'SE1','SE3','SE6','SE8','cs','diy','photo','rpg','scifi']
     '''temp1={}
     path = '/Users/amrit/GITHUB/LDAClassification/src/2016-11-03/dump/jaccard/'
     for root, dirs, files in os.walk(path, topdown=False):
@@ -28,7 +29,7 @@ if __name__ == '__main__':
         #print(tuned[f][-2])
         Y_tuned_m.append(np.median(tuned[f][-2]))
         Y_tuned_iqr.append(np.percentile(tuned[f][-2],75)-np.percentile(tuned[f][-2],25))
-    issel=['tfidf','hash']
+    issel=['hash']
 
     font = {
         'size': 60}
@@ -49,10 +50,12 @@ if __name__ == '__main__':
         for f in fileB:
             Y_untuned_m.append(np.median(untuned[f][s]['linear']))
             Y_untuned_iqr.append(np.percentile(untuned[f][s]['linear'],75)-np.percentile(untuned[f][s]['linear'],25))
-        line,=plt.plot(X,  Y_untuned_m, marker='o', markersize=20, label='median '+s)
-        plt.plot(X, Y_untuned_iqr,linestyle="-.", marker='*',markersize=25,color=line.get_color(),label='iqr '+s)
-    line, = plt.plot(X, Y_tuned_m, marker='o', markersize=20, label='median tuned')
-    plt.plot(X, Y_tuned_iqr, linestyle="-.", marker='*', markersize=25, color=line.get_color(), label='iqr tuned')
+        line,=plt.plot(X,  Y_untuned_m, marker='o', markersize=20, label='median tf+l2norm')
+        plt.plot(X, Y_untuned_iqr,linestyle="-.", marker='*',markersize=25,color=line.get_color(),label='iqr tf+l2norm')
+    line, = plt.plot(X, Y_tuned_m, marker='o', markersize=20, label='median tuned LDA')
+    plt.plot(X, Y_tuned_iqr, linestyle="-.", marker='*', markersize=25, color=line.get_color(), label='iqr tuned LDA')
+    line, = plt.plot(X, bow[0], marker='o', markersize=20, label='median bow')
+    plt.plot(X, bow[1], linestyle="-.", marker='*', markersize=25, color=line.get_color(), label='iqr bow')
 
     #plt.ytext(0.04, 0.5, va='center', rotation='vertical', fontsize=11)
     #plt.text(0.04, 0.5,"Rn (Raw Score)", labelpad=100)
@@ -60,5 +63,5 @@ if __name__ == '__main__':
     plt.xticks(X, fileB)
     plt.ylabel("F2 Score", labelpad=30)
     plt.xlabel("Datasets", labelpad=30)
-    plt.legend(bbox_to_anchor=(1.08, 1.13), loc=1, ncol=3, borderaxespad=0.1)
+    plt.legend(bbox_to_anchor=(1.02, 1.13), loc=1, ncol=3, borderaxespad=0.1)
     plt.savefig("jaccard_tuned_vs_l2row.png")
